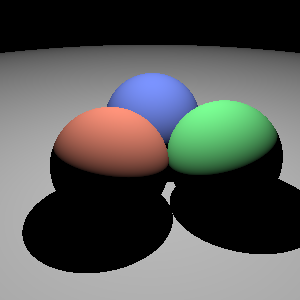
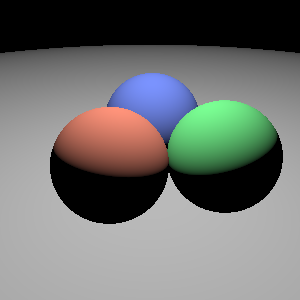
Update

Changed region(s): [[0.06, 0.57, 1.0, 0.93]]

diff --git a/project01/rayTracer__four_sphere.py b/project01/rayTracer__four_sphere.py
@@ -4,6 +4,7 @@ import pdb
 import code
 import xml.etree.ElementTree as ET
 import numpy as np
+import math
 from PIL import Image 
 
 ################################################################################
@@ -37,26 +38,35 @@ class rayTrace:
             self.camera['viewDir'] = np.array(c.findtext('viewDir').split()).astype(np.float)
             self.camera['projNormal'] = np.array(c.findtext('projNormal').split()).astype(np.float)
             self.camera['viewUp'] = np.array(c.findtext('viewUp').split()).astype(np.float)
-            self.camera['projDistance'] = float(c.findtext('projDistance'))
             self.camera['viewWidth'] = float(c.findtext('viewWidth'))
             self.camera['viewHeight'] = float(c.findtext('viewHeight'))
+            self.camera['projDistance'] = 1.0
+            # self.camera['projDistance'] = float(c.findtext('projDistance'))
 
         imgSize = np.array(root.findtext('image').split()).astype(np.int)
         self.image['width'] = imgSize[0]
         self.image['height'] = imgSize[1]
 
         for c in root.findall('shader'):
-            self.shader['diffuseColor'] = np.array(c.findtext('diffuseColor').split()).astype(np.float)
-            self.shader['specularColor'] = np.array(c.findtext('specularColor').split()).astype(np.float)
-            self.shader['exponent'] = float(c.findtext('exponent'))
+            cnt = self.shaderNum
+            self.shader[cnt] = {}
+            self.shader[cnt]['diffuseColor'] = np.array(c.findtext('diffuseColor').split()).astype(np.float)
+            self.shaderNum += 1
 
         for c in root.findall('surface'):
-            self.surface['center'] = np.array(c.findtext('center').split()).astype(np.float)
-            self.surface['radius'] = np.array(c.findtext('radius').split()).astype(np.float)
+            cnt = self.surfaceNum
+            self.surface[cnt] = {}
+            self.surface[cnt]['center'] = np.array(c.findtext('center').split()).astype(np.float)
+            self.surface[cnt]['radius'] = np.array(c.findtext('radius').split()).astype(np.float)
+            self.surfaceNum += 1
 
         for c in root.findall('light'):
             self.light['position'] = np.array(c.findtext('position').split()).astype(np.float)
             self.light['intensity'] = np.array(c.findtext('intensity').split()).astype(np.float)
+
+    # def findClosest(self, d):
+
+    #     return tmin, closestObj
 
     def draw(self):
         self.img = self.createEmptyCanvas()
@@ -82,33 +92,74 @@ class rayTrace:
                 s = e + (x * vector_u) + (y * vector_v) - (self.camera['projDistance'] * vector_w)
                 d = normalize(s - e)
 
-                a = np.dot(d, d)
-                b = np.dot(d, e - self.surface['center'])
-                c = np.dot(e - self.surface['center'], e - self.surface['center']) - self.surface['radius'] ** 2
+                tmin = math.inf
+                closestObj = None
 
-                temp = (b ** 2) - (a * c)
+                for cnt in range(self.surfaceNum):
+                    a = np.dot(d, d)
+                    b = np.dot(d, e - self.surface[cnt]['center'])
+                    c = np.dot(e - self.surface[cnt]['center'], e - self.surface[cnt]['center']) - self.surface[cnt]['radius'] ** 2
 
-                if temp < 0:
+                    temp = (b ** 2) - (a * c)
+
+                    if temp < 0:
+                        continue
+
+                    t = min((-b + np.sqrt(temp)) / a, (-b - np.sqrt(temp)) / a)
+
+                    if t < tmin:
+                        closestObj = cnt
+                        tmin = t
+
+                if tmin == math.inf:
                     continue
 
-                t = min(-b + np.sqrt(temp) / a, -b - np.sqrt(temp) / a)
-                point = e + t * d
+                point = e + tmin * d
 
-                n = normalize(point - self.surface['center'])
+                n = normalize(point - self.surface[closestObj]['center'])
                 l = normalize(self.light['position'] - point)
                 h = normalize(-d + l)
                 # h = normalize((e - point) + l)
 
-                diffuseColor = self.shader['diffuseColor']
+                diffuseColor = self.shader[closestObj]['diffuseColor']
                 intensity = self.light['intensity']
-                specularColor = self.shader['specularColor']
-                exponent = self.shader['exponent']
 
-                pixelColor = diffuseColor * intensity * max(0, np.dot(n, l)) + specularColor * intensity * np.power(max(0, np.dot(n, h)), exponent)
+                pixelColor = diffuseColor * intensity * max(0, np.dot(n, l))
+                # pixelColor = diffuseColor * intensity * max(0, np.dot(n, l)) + specularColor * intensity * np.power(max(0, np.dot(n, h)), exponent)
                 pixelColor = Color(pixelColor[0], pixelColor[1], pixelColor[2])
                 pixelColor.gammaCorrect(2.2)
 
                 self.img[j][i] = pixelColor.toUINT8()
+
+
+
+
+                # temp = (b ** 2) - (a * c)
+
+                # if temp < 0:
+                #     continue
+
+                # t = min(-b + np.sqrt(temp) / a, -b - np.sqrt(temp) / a)
+
+                # n = normalize(point - self.surface['center'])
+                # l = normalize(self.light['position'] - point)
+                # h = normalize(-d + l)
+                # # h = normalize((e - point) + l)
+
+                # diffuseColor = self.shader['diffuseColor']
+                # intensity = self.light['intensity']
+                # specularColor = self.shader['specularColor']
+                # exponent = self.shader['exponent']
+
+                # pixelColor = diffuseColor * intensity * max(0, np.dot(n, l)) + specularColor * intensity * np.power(max(0, np.dot(n, h)), exponent)
+                # pixelColor = Color(pixelColor[0], pixelColor[1], pixelColor[2])
+                # pixelColor.gammaCorrect(2.2)
+
+                # self.img[j][i] = pixelColor.toUINT8()
+
+
+
+                # self.img[j][i] = [255, 255, 255]
 
     def __init__(self, file):
         self.parseData(file)
@@ -128,8 +179,11 @@ class Color:
 
 ################################################################################
 
+def getLength(a):
+    return np.sqrt(np.dot(a, a))
+
 def normalize(val):
-    return val / np.sqrt(np.dot(val, val))
+    return val / getLength(val)
 
 ################################################################################
 

diff --git a/project01/rayTracer__one_box.py b/project01/rayTracer__one_box.py
@@ -4,6 +4,7 @@ import pdb
 import code
 import xml.etree.ElementTree as ET
 import numpy as np
+import math
 from PIL import Image 
 
 ################################################################################
@@ -134,6 +135,35 @@ def swap(a, b):
     a = b
     b = a
 
+def intersect(p, d, tmin, tmax):
+    tnear = -math.inf
+    tfar = math.inf
+
+    for i in range(3):
+        if d[i] == 0:
+            if (p[i] < tmin[i] or p[i] > tmax[i]):
+                return False, 0
+        else:
+            t1 = (tmin[i] - p[i]) / d[i]
+            t2 = (tmax[i] - p[i]) / d[i]
+
+            if t1 > t2:
+                t1, t2 = t2, t1
+
+            if t1 > tnear:
+                tnear = t1
+
+            if t2 < tfar:
+                tfar = t2
+
+            if tnear > tfar:
+                return False, 0
+
+            if tfar < 0:
+                return False, 0
+
+    return True, tnear   
+
 def main():
     shape = rayTrace(sys.argv[1])
     shape.img = shape.createEmptyCanvas()
@@ -152,12 +182,8 @@ def main():
     y2 = shape.camera['viewHeight'] / 2
     nx = shape.image['width']
     ny = shape.image['height']
-    xmin = shape.surface['minPt'][0]
-    ymin = shape.surface['minPt'][1]
-    zmin = shape.surface['minPt'][2]
-    xmax = shape.surface['maxPt'][0]
-    ymax = shape.surface['maxPt'][1]
-    zmax = shape.surface['maxPt'][2]
+
+    center = np.array([0, 0, 0]).astype(np.float)
 
     for i in np.arange(nx):
         for j in np.arange(ny):
@@ -166,32 +192,26 @@ def main():
             s = e + (x * vector_u) + (y * vector_v) - (shape.camera['projDistance'] * vector_w)
             d = normalize(s - e)
 
-            txmin = (xmin - p[0]) / d[0]
-            txmax = (xmax - p[0]) / d[0]
-            tymin = (ymin - p[1]) / d[1]
-            tymax = (ymax - p[1]) / d[1]
-            tzmin = (zmin - p[2]) / d[2]
-            tzmax = (zmax - p[2]) / d[2]
+            check, tnear = intersect(p, d, shape.surface['minPt'], shape.surface['maxPt'])
 
-            tmin = max(txmax, tymax, tzmax)
-            tmax = min(txmin, tymin, tzmin)
-
-            if tmin > tmax:
+            if check != True:
                 continue
 
-            temp = tmin
-            t = min(np.dot(-d, p) + np.sqrt(temp), np.dot(-d, p) - np.sqrt(temp))
-            # t = tmin
+            t = tnear
+
             point = e + t * d
 
-            center = np.array([
-                (xmax - xmin) / 2,
-                (ymax - ymin) / 2,
-                (zmax - zmin) / 2])
+            v = e - point
+            dp = (shape.surface['minPt'] - shape.surface['maxPt'])/2
+            bias = 1.000001
 
-            n = normalize(point - center)
+            n = np.array([
+                int(point[0] / abs(dp[0]) * bias), 
+                int(point[1] / abs(dp[1]) * bias), 
+                int(point[2] / abs(dp[2]) * bias)]).astype(np.float)
+            n = normalize(n)
             l = normalize(shape.light['position'] - point)
-            h = normalize(-d + l)
+            h = normalize(v + l)
 
             diffuseColor = shape.shader['diffuseColor']
             intensity = shape.light['intensity']

diff --git a/project01/rayTracer_0422.py b/project01/rayTracer_0422.py
@@ -1,0 +1,79 @@
+#!/usr/bin/env python3
+# -*- coding: utf-8 -*
+# sample_python aims to allow seamless integration with lua.
+# see examples below
+
+import os
+import sys
+import pdb  # use pdb.set_trace() for debugging
+import code # or use code.interact(local=dict(globals(), **locals()))  for debugging.
+import xml.etree.ElementTree as ET
+import numpy as np
+import math
+from PIL import Image 
+class Color:
+    def __init__(self, R, G, B):
+        self.color=np.array([R,G,B]).astype(np.float)
+
+    # Gamma corrects this color.
+    # @param gamma the gamma value to use (2.2 is generally used).
+    def gammaCorrect(self, gamma):
+        inverseGamma = 1.0 / gamma;
+        self.color=np.power(self.color, inverseGamma)
+
+    def toUINT8(self):
+        return (np.clip(self.color, 0,1)*255).astype(np.uint8)
+
+def main():
+    tree = ET.parse(sys.argv[1])
+    root = tree.getroot()
+
+    camera = {}
+    shader = {}
+    surface = {}
+    light = {}
+
+    # # set default values
+    # viewDir=np.array([0,0,-1]).astype(np.float)
+    # viewUp=np.array([0,1,0]).astype(np.float)
+    # viewProjNormal=-1*viewDir  # you can safely assume this. (no examples will use shifted perspective camera)
+    # viewWidth=1.0
+    # viewHeight=1.0
+    # projDistance=1.0
+    # intensity=np.array([1,1,1]).astype(np.float)  # how bright the light is.
+    # print(np.cross(viewDir, viewUp))
+
+    # imgSize=np.array(root.findtext('image').split()).astype(np.int)
+
+    # for c in root.findall('camera'):
+    #     viewPoint=np.array(c.findtext('viewPoint').split()).astype(np.float)
+    #     print('viewpoint', viewPoint)
+    # for c in root.findall('shader'):
+    #     diffuseColor_c=np.array(c.findtext('diffuseColor').split()).astype(np.float)
+    #     print('name', c.get('name'))
+    #     print('diffuseColor', diffuseColor_c)
+    # #code.interact(local=dict(globals(), **locals()))  
+
+    # # Create an empty image
+    # channels=3
+    # img = np.zeros((imgSize[1], imgSize[0], channels), dtype=np.uint8)
+    # img[:,:]=0
+    
+    # # replace the code block below!
+    # for i in np.arange(imgSize[1]): 
+    #     white=Color(1,1,1)
+    #     red=Color(1,0,0)
+    #     blue=Color(0,0,1)
+    #     img[10][i]=white.toUINT8()
+    #     img[i][i]=red.toUINT8()
+    #     img[i][0]=blue.toUINT8()
+
+    # for x in np.arange(imgSize[0]): 
+    #     img[5][x]=[255,255,255]
+
+    # rawimg = Image.fromarray(img, 'RGB')
+    # #rawimg.save('out.png')
+    # rawimg.save(sys.argv[1]+'.png')
+    
+if __name__=="__main__":
+    main()

diff --git a/project01/rayTracer__0422_backup.py b/project01/rayTracer__0422_backup.py
@@ -66,7 +66,7 @@ class rayTrace:
     
         vector_w = normalize(self.camera['projNormal'])
         vector_u = normalize(np.cross(self.camera['viewUp'], vector_w))
-        vector_v = -normalize(np.cross(vector_w, vector_u))
+        vector_v = normalize(np.cross(vector_w, vector_u))
 
         x1 = -self.camera['viewWidth'] / 2
         y1 = -self.camera['viewHeight'] / 2
@@ -81,23 +81,17 @@ class rayTrace:
                 y = y1 + (y2 - y1) * (j + 0.5) / ny
                 s = e + (x * vector_u) + (y * vector_v) - (self.camera['projDistance'] * vector_w)
                 d = normalize(s - e)
-
-                a = np.dot(d, d)
-                b = np.dot(d, e - self.surface['center'])
-                c = np.dot(e - self.surface['center'], e - self.surface['center']) - self.surface['radius'] ** 2
-
-                temp = (b ** 2) - (a * c)
+                temp = np.power(np.dot(d, p), 2) - np.dot(p, p) + 1
 
                 if temp < 0:
                     continue
 
-                t = min(-b + np.sqrt(temp) / a, -b - np.sqrt(temp) / a)
+                t = min(np.dot(-d, p) + np.sqrt(temp), np.dot(-d, p) - np.sqrt(temp))
                 point = e + t * d
 
                 n = normalize(point - self.surface['center'])
                 l = normalize(self.light['position'] - point)
                 h = normalize(-d + l)
-                # h = normalize((e - point) + l)
 
                 diffuseColor = self.shader['diffuseColor']
                 intensity = self.light['intensity']
